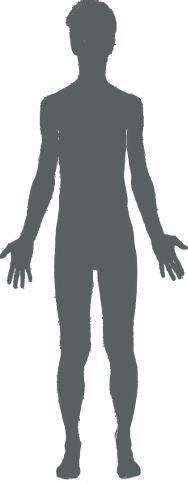
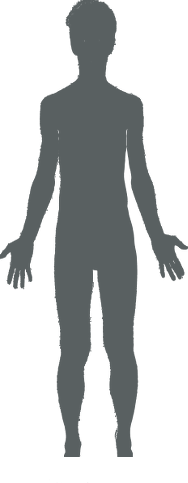
add shoes and resize feet on body.png

Changed region(s): [[0.6117, 0.9317, 0.7447, 0.9938], [0.2926, 0.9317, 0.4255, 0.9938]]

diff --git a/src/main.cpp b/src/main.cpp
@@ -1136,8 +1136,8 @@ Character::Character(void) {
     right_hand = new Grid (off_x - 85, off_y + 223, 3, 3, g.right_hand);
     left_hand = new Grid (off_x + 67, off_y + 215, 3, 3, g.left_hand);
     legs = new Grid (off_x - 33, off_y + 220, 6, 11, g.legs);
-    right_foot = new Grid (off_x - 35, off_y + 415, 3, 3, g.right_foot);
-    left_foot = new Grid (off_x + 25, off_y + 415, 3, 3, g.left_foot);
+    right_foot = new Grid (off_x - 35, off_y + 392, 3, 3, g.right_foot);
+    left_foot = new Grid (off_x + 25, off_y + 392, 3, 3, g.left_foot);
 
     back = new Grid(680, 10, 2, 2, g.back);
     right_hand_hold = new Grid (680, 195, 2, 2, g.right_hand_hold);
@@ -4754,7 +4754,7 @@ ConditionGridSystem::~ConditionGridSystem() {
 void ConditionGridSystem::draw(void) {
     al_draw_bitmap(g.bitmaps[45], 480, 70, 0);
     al_draw_text(g.font, g.color_white, 200, 10, 0, "Ground:");
-    al_draw_filled_rectangle(700, 50, 1175, 500, g.color_greu);
+    al_draw_filled_rectangle(700, 50, 1175, 500, g.color_grey);
     al_draw_text(g.font, g.color_black, 708, 58, 0, "Current conditions:");
 
     for (auto& g : grids) {
@@ -5356,9 +5356,9 @@ void InventoryGridSystem::reset(void) {
     grids.push_back(g.map->player->head);
     grids.push_back(g.map->player->neck);
     grids.push_back(g.map->player->torso);
-    grids.push_back(g.map->player->legs);
     grids.push_back(g.map->player->right_foot);
     grids.push_back(g.map->player->left_foot);
+    grids.push_back(g.map->player->legs);
 
     g.map->player->addInventoryHardpoints(this);
 
@@ -5367,9 +5367,9 @@ void InventoryGridSystem::reset(void) {
     grids.push_back((*ground)[current_ground_page]);
     // reparent();
 
-    pos.x1 = 0;
+    pos.x1 = 100;
     pos.y1 = 0;
-    pos.x2 = 1280;
+    pos.x2 = 1180;
     pos.y2 = 720;
 
     countTotalItems();
@@ -5379,9 +5379,9 @@ void InventoryGridSystem::reset(void) {
 void ConditionGridSystem::reset(void) {
     // add backpack and hand hardpoints
     grids.clear();
-    // grids.push_back(g.map->player->right_hand_hold);
-    // grids.push_back(g.map->player->left_hand_hold);
-    // grids.push_back(g.map->player->back);
+    grids.push_back(g.map->player->right_hand_hold);
+    grids.push_back(g.map->player->left_hand_hold);
+    grids.push_back(g.map->player->back);
 
     // body hardpoints
     grids.push_back(g.map->player->medical_upper_torso);
